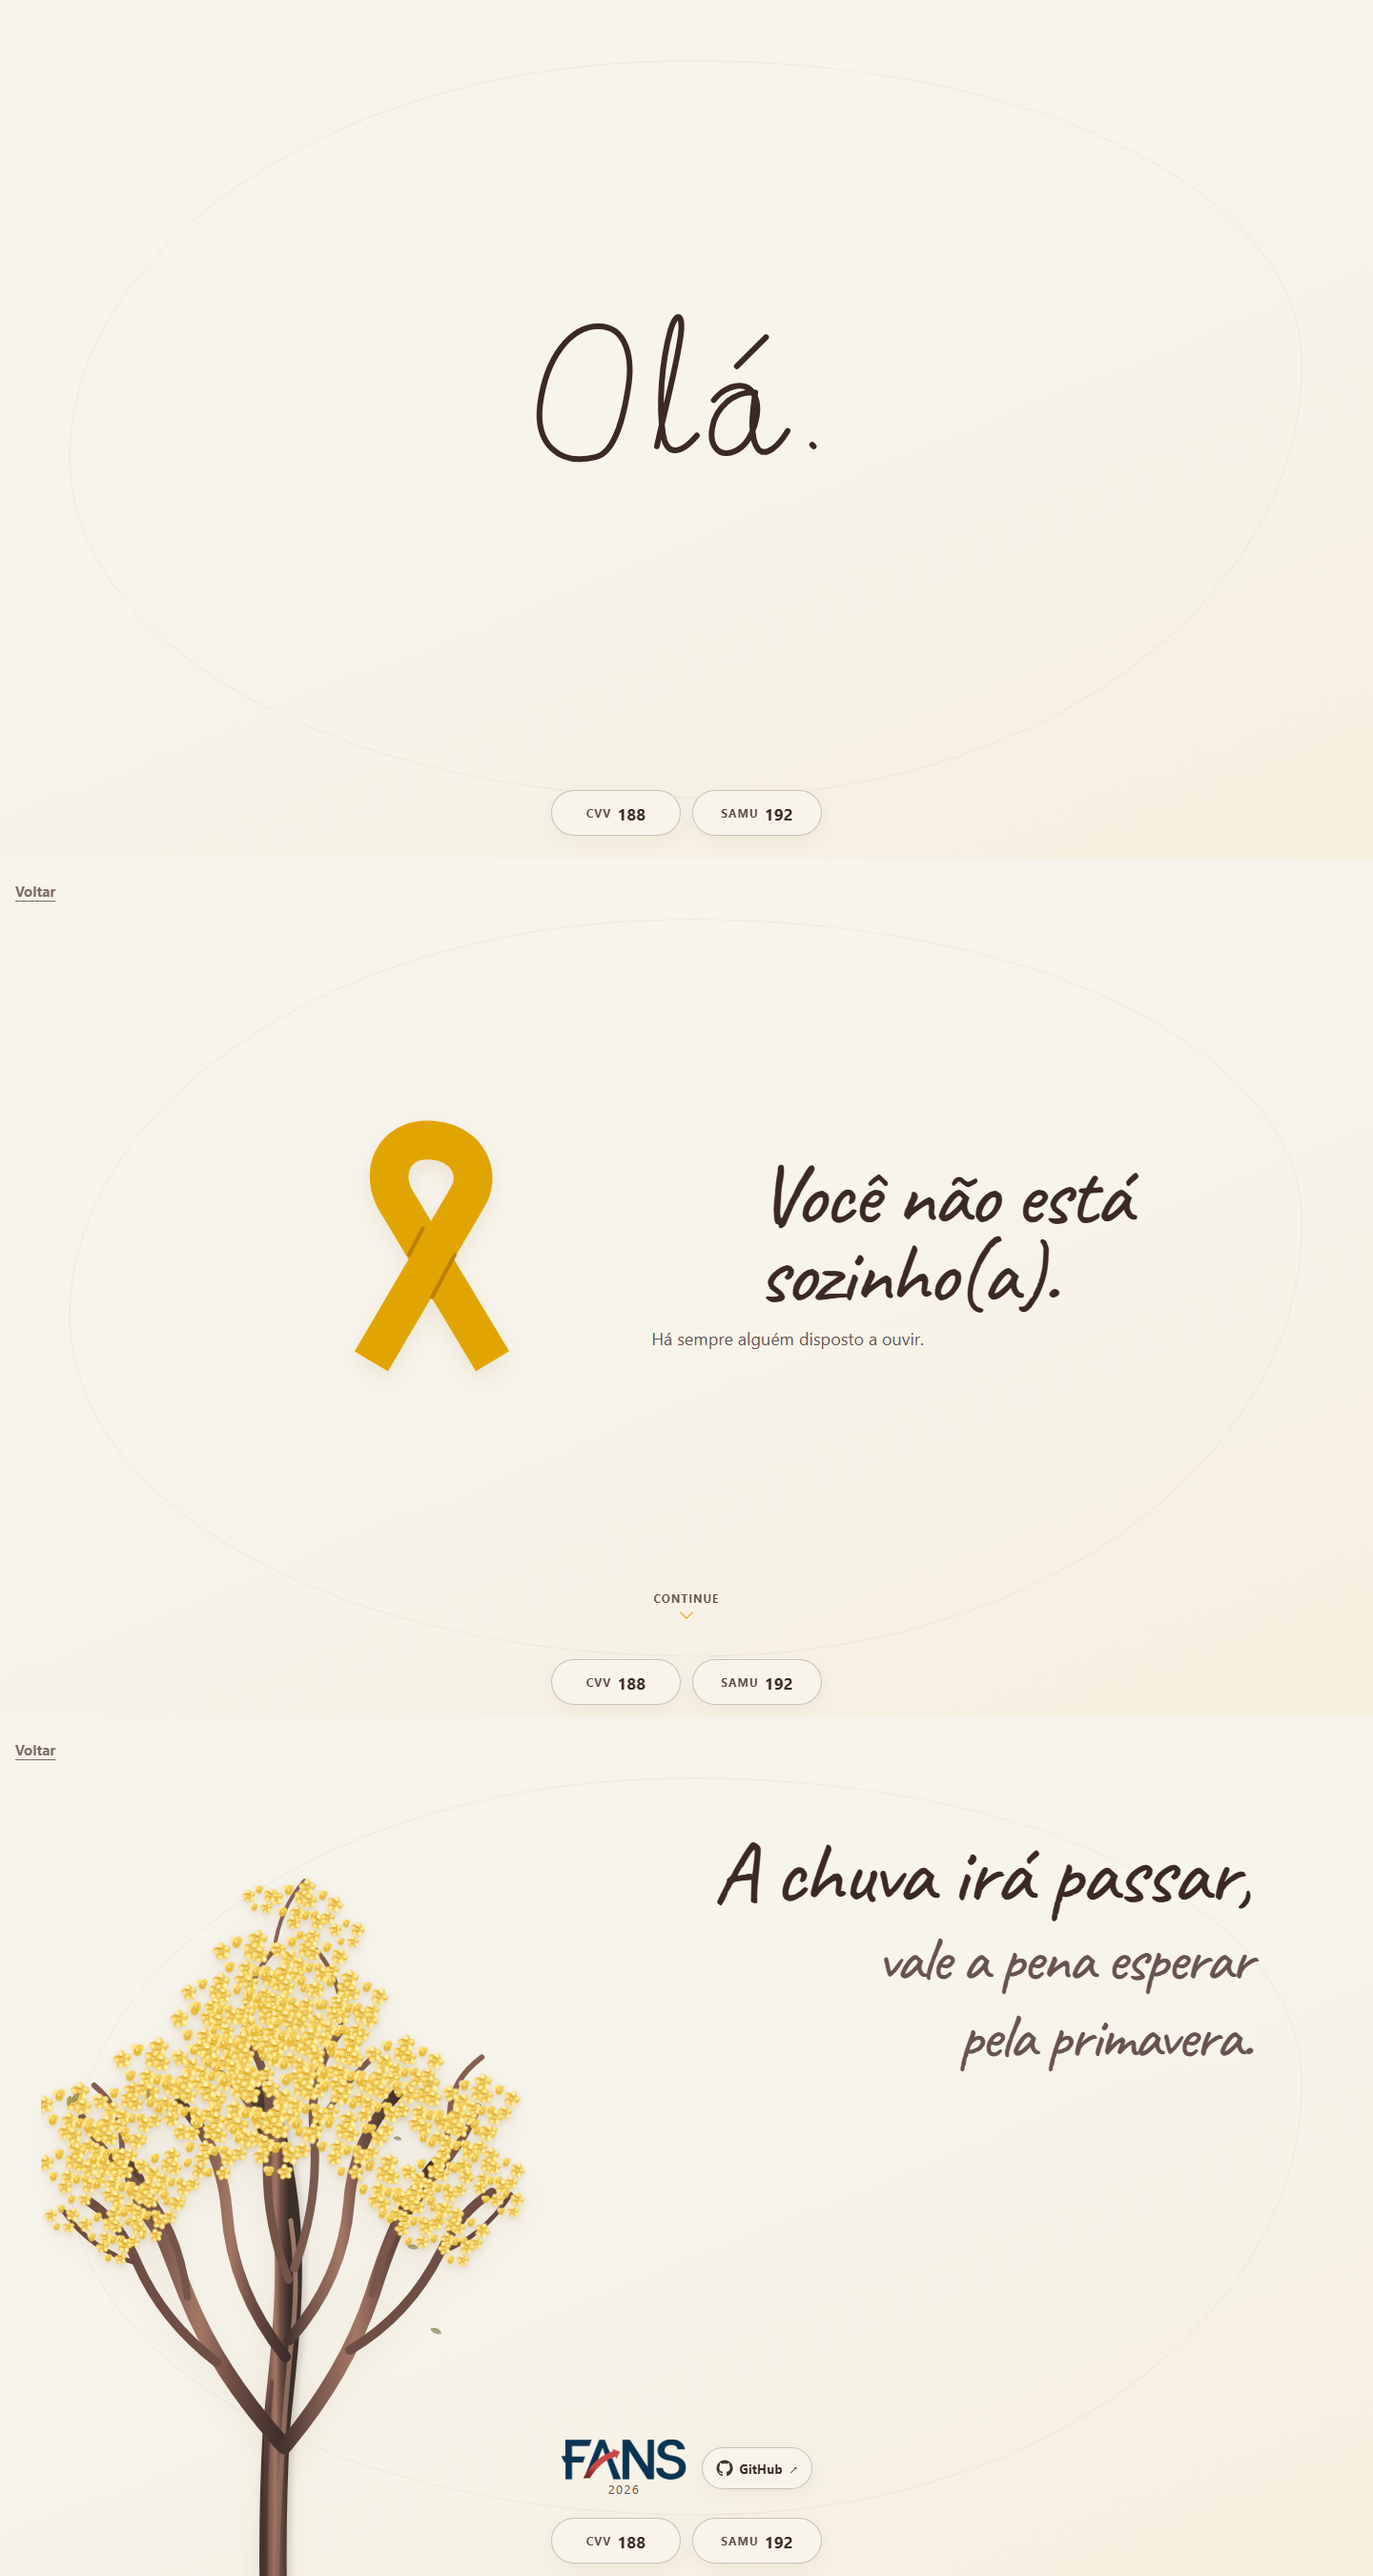
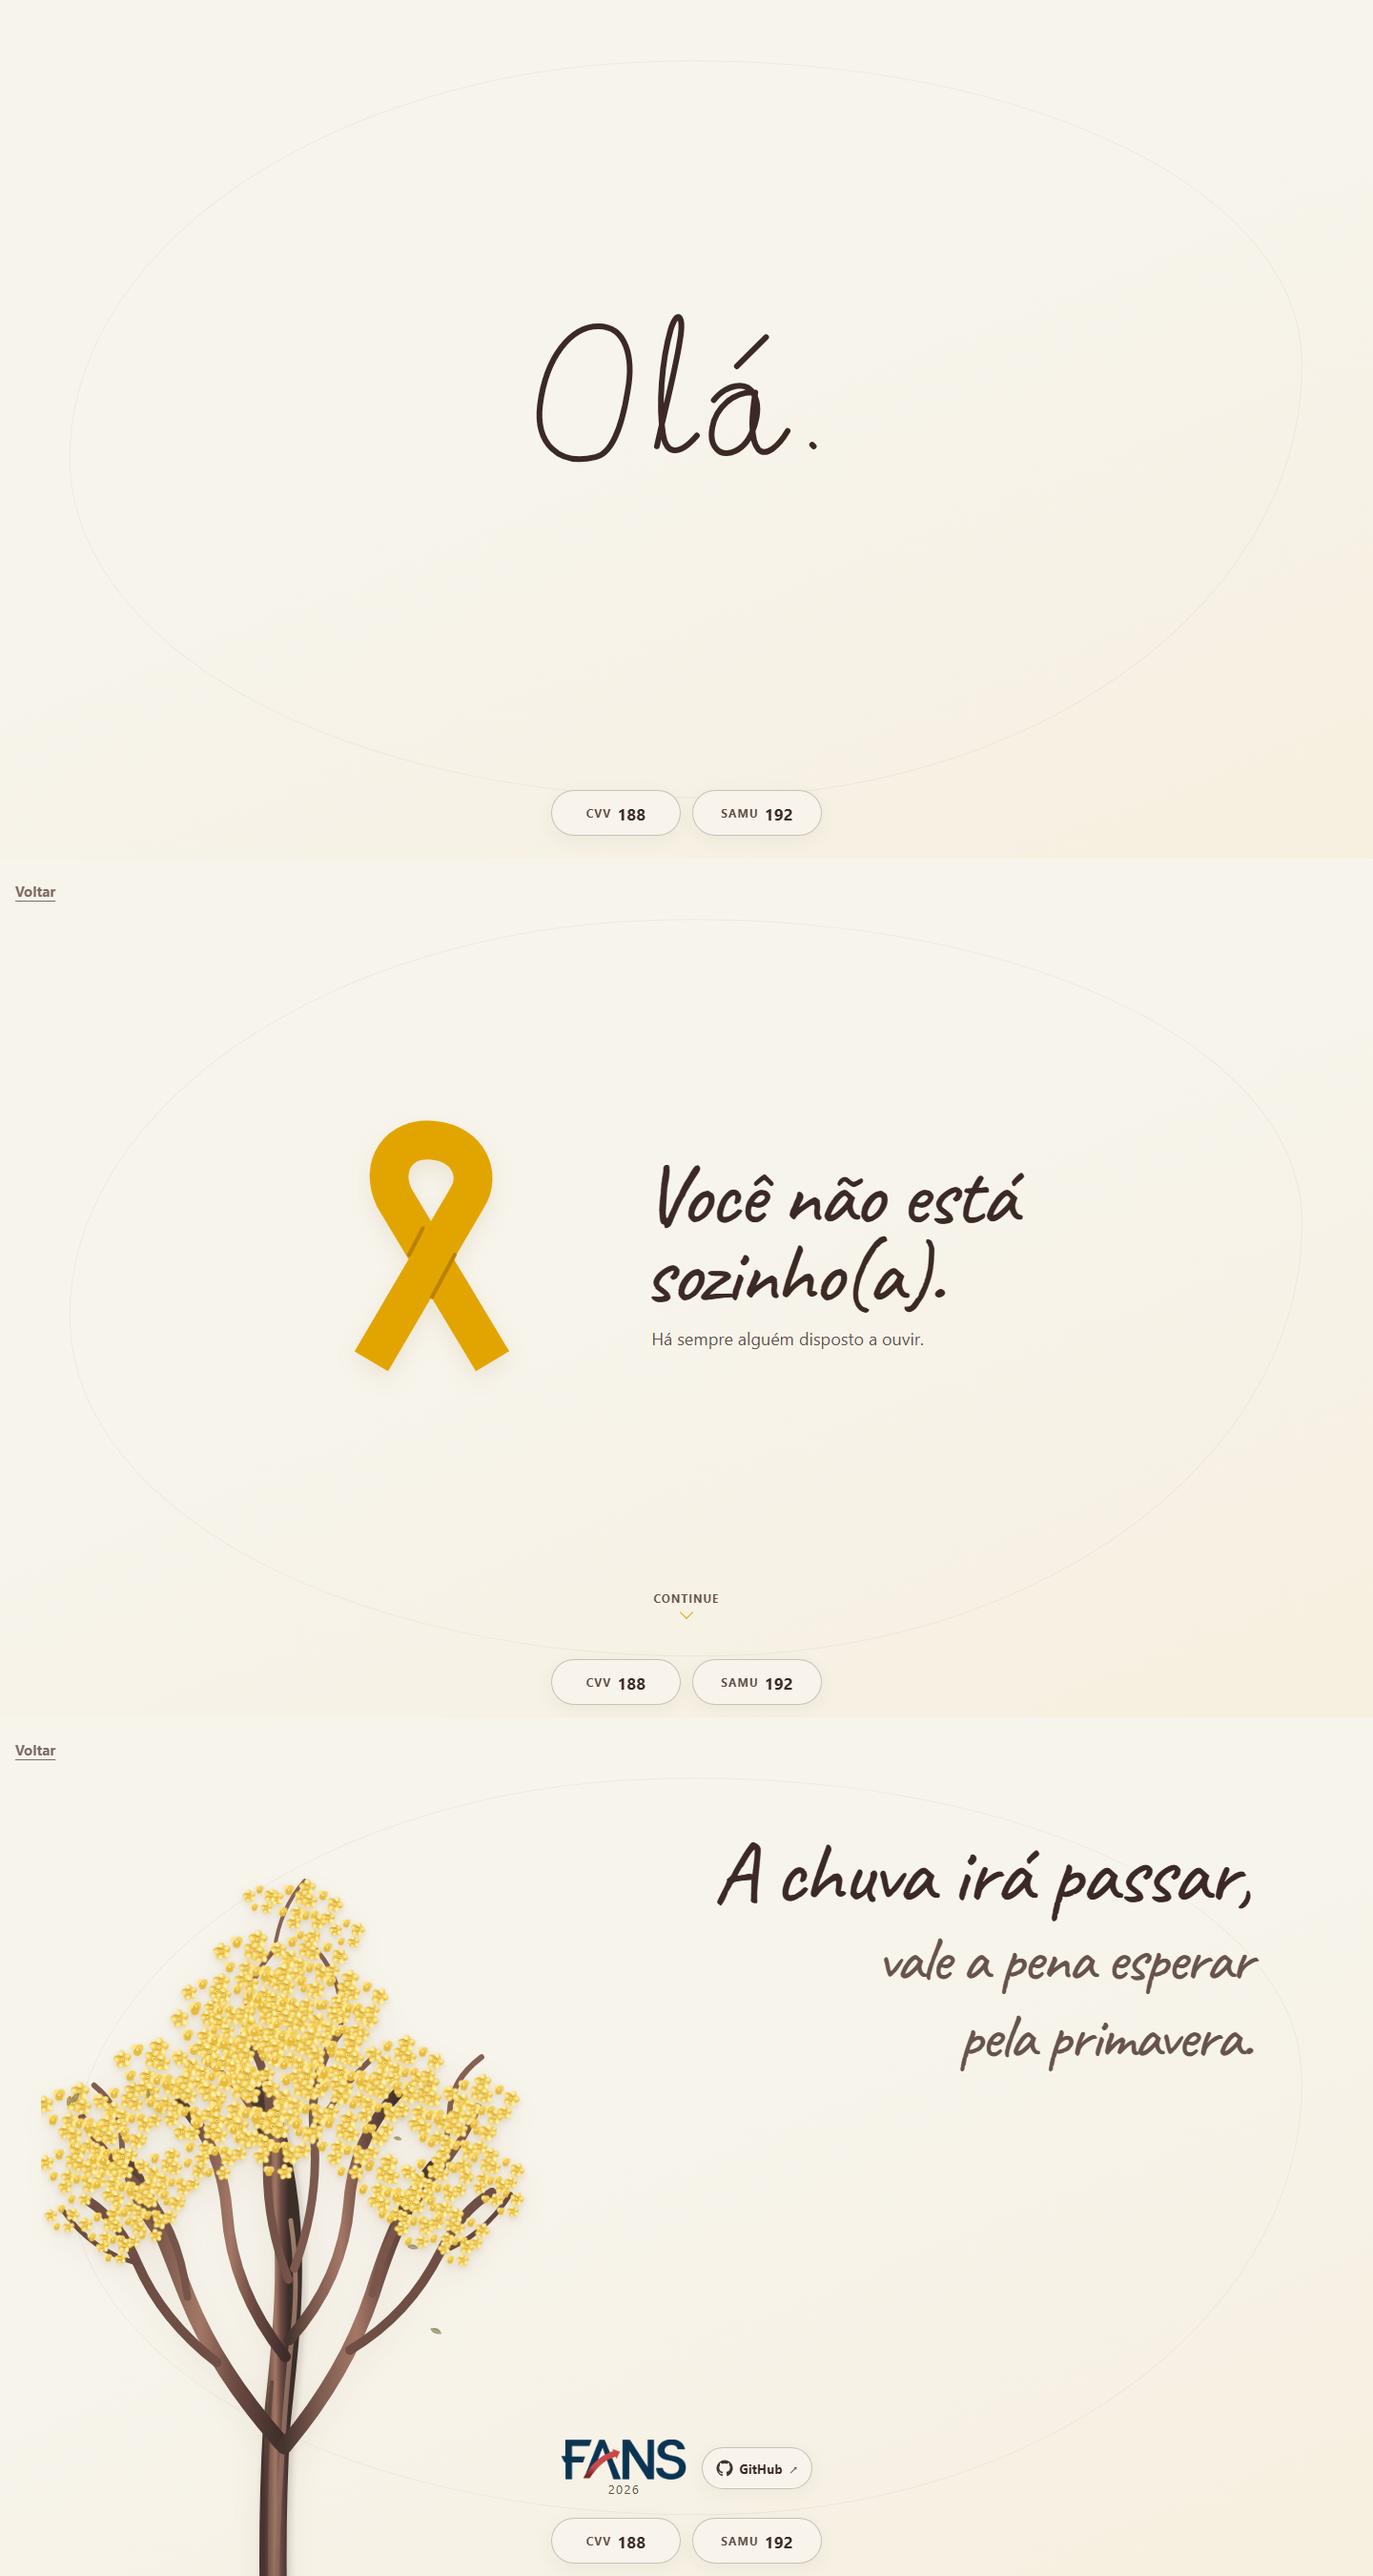
Align welcome heading on desktop

Changed region(s): [[0.4688, 0.4356, 0.8125, 0.5289]]

diff --git a/css/style.css b/css/style.css
@@ -650,8 +650,11 @@ a:focus-visible {
   }
 
   .frame--welcome h2 {
+    position: relative;
     grid-column: 2;
     align-self: end;
+    justify-self: start;
+    inset-inline-start: -.55rem;
     margin: 0;
     font-size: clamp(5rem, 6.2vw, 7.25rem);
     text-align: left;
